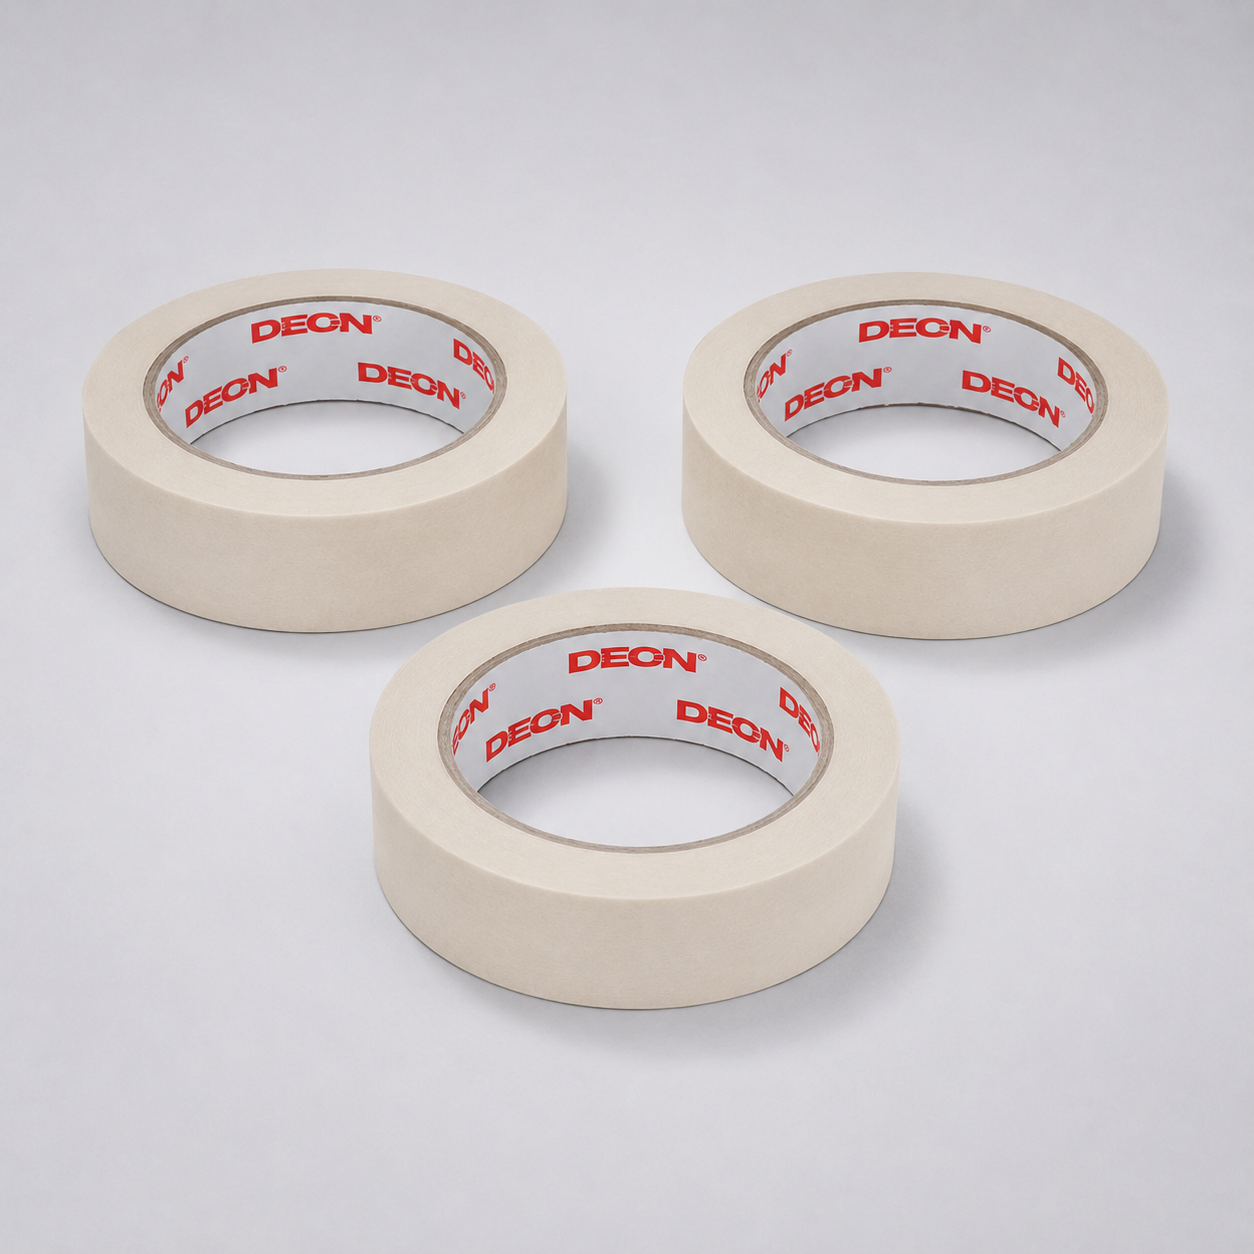
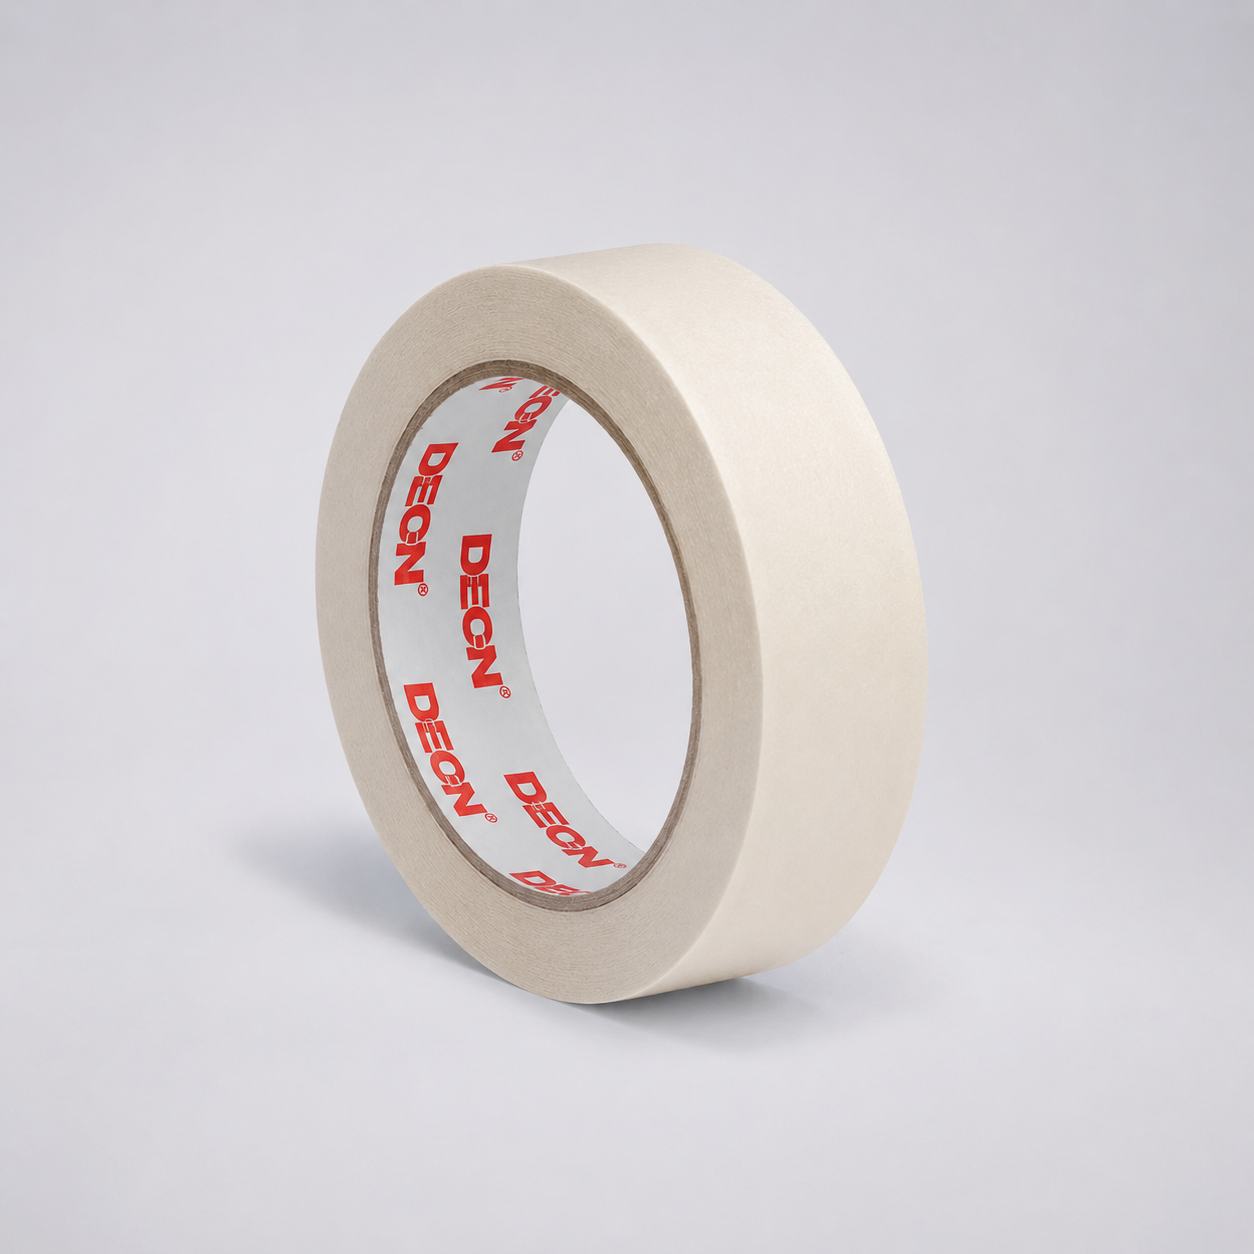
Reorder gallery images: best cover first, use gallery for cards
31700: color lineup moved to _1; DT3121L: 3-roll shot moved to _1.
Product cards now use gallery first image as cover when available.

Changed region(s): [[0.0622, 0.1866, 0.9641, 0.8397], [0.4665, 0.6531, 0.7464, 0.8086]]

diff --git a/deon-site/assets/products.js b/deon-site/assets/products.js
@@ -63,8 +63,9 @@
       &&(!active.sided.length||active.sided.indexOf(sd)>-1);
   }
 
+  var HAS_GALLERY={'31700':1,'50W13':1,'41860':1,'DT1142':1,'DT3121L':1,'DT3124L':1,'DT3131':1,'DT4021':1,'M5001':1,'PW6001':1};
   function card(p){
-    var img='assets/img/'+p[0].toLowerCase()+'.jpeg';
+    var img=HAS_GALLERY[p[0]]?'assets/img/products/'+p[0]+'/'+p[0].toLowerCase()+'_1.png':'assets/img/'+p[0].toLowerCase()+'.jpeg';
     return '<a class="pcard reveal" href="product-detail.html?sku='+p[0]+'">'+
       '<div class="pimg"><img src="'+img+'" alt="'+p[1]+'" loading="lazy"></div>'+
       '<div class="pbody"><div class="pcard-top">'+

diff --git a/deon-site/products.html b/deon-site/products.html
@@ -43,6 +43,6 @@
 
 <script src="assets/chrome.js?v=2026080104"></script>
 <script src="assets/site.js?v=20260801a"></script>
-<script src="assets/products.js?v=2026080114"></script>
+<script src="assets/products.js?v=2026080115"></script>
 </body>
 </html>
